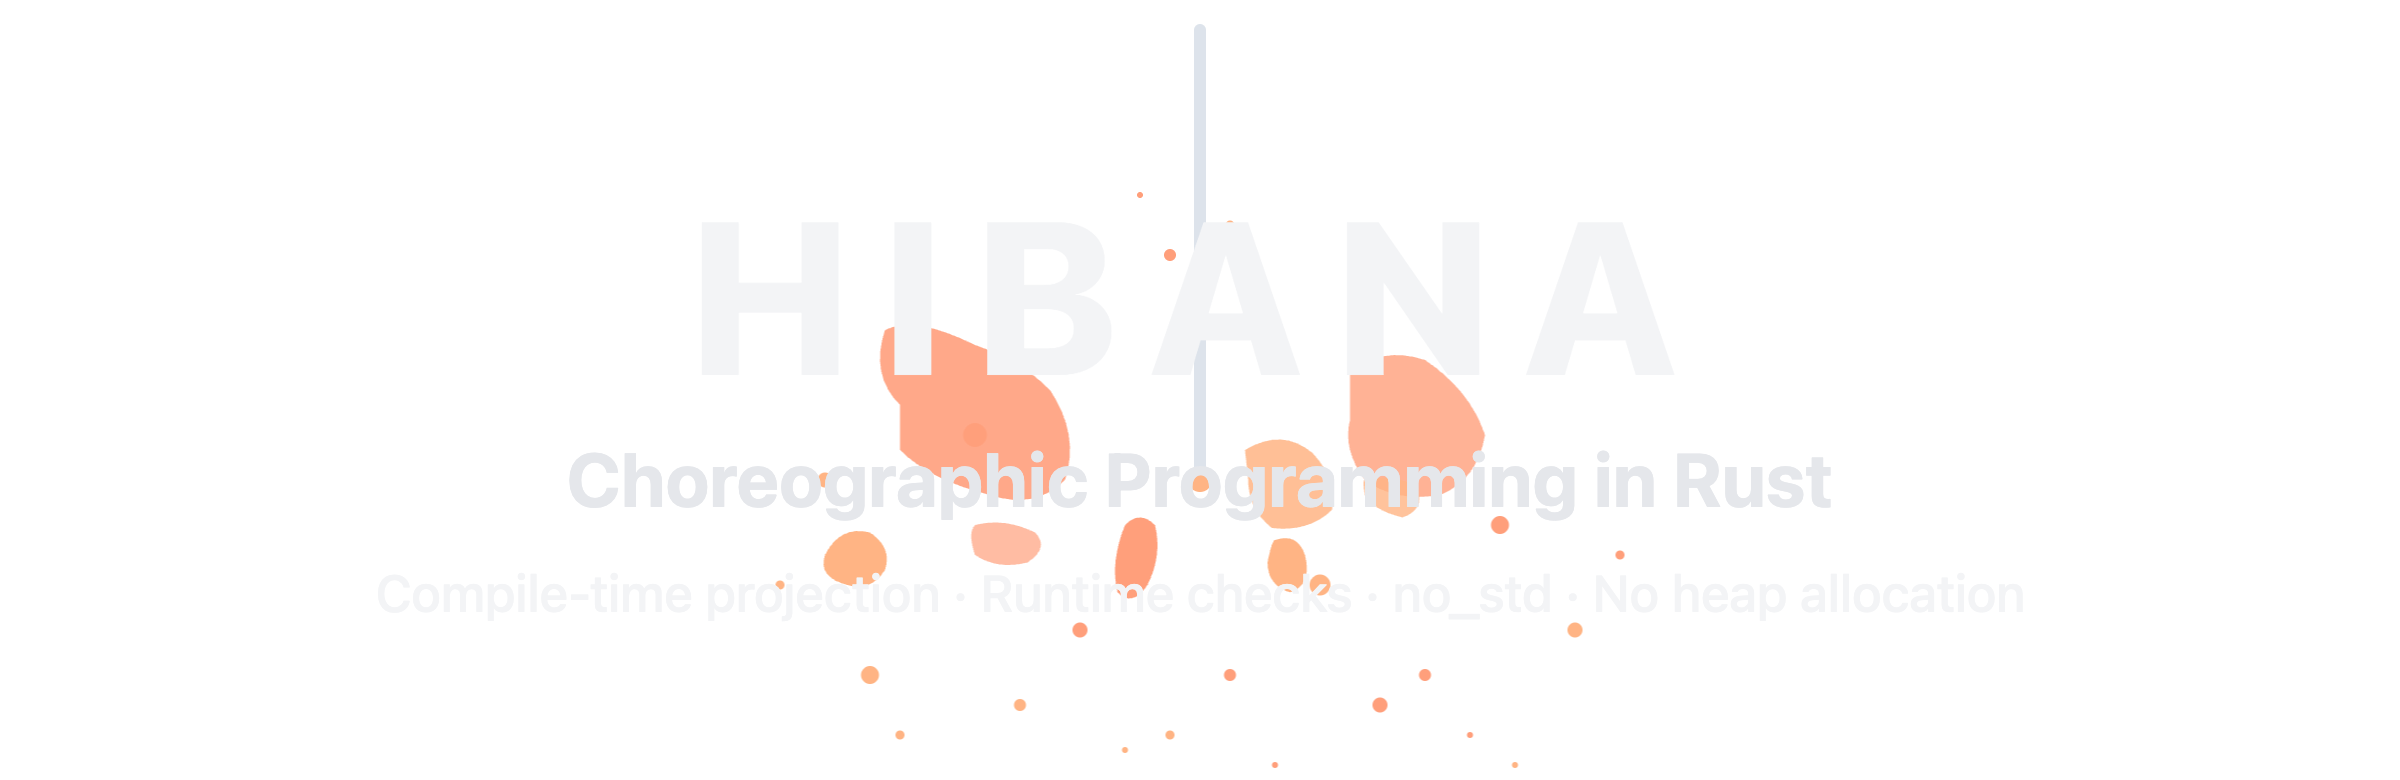
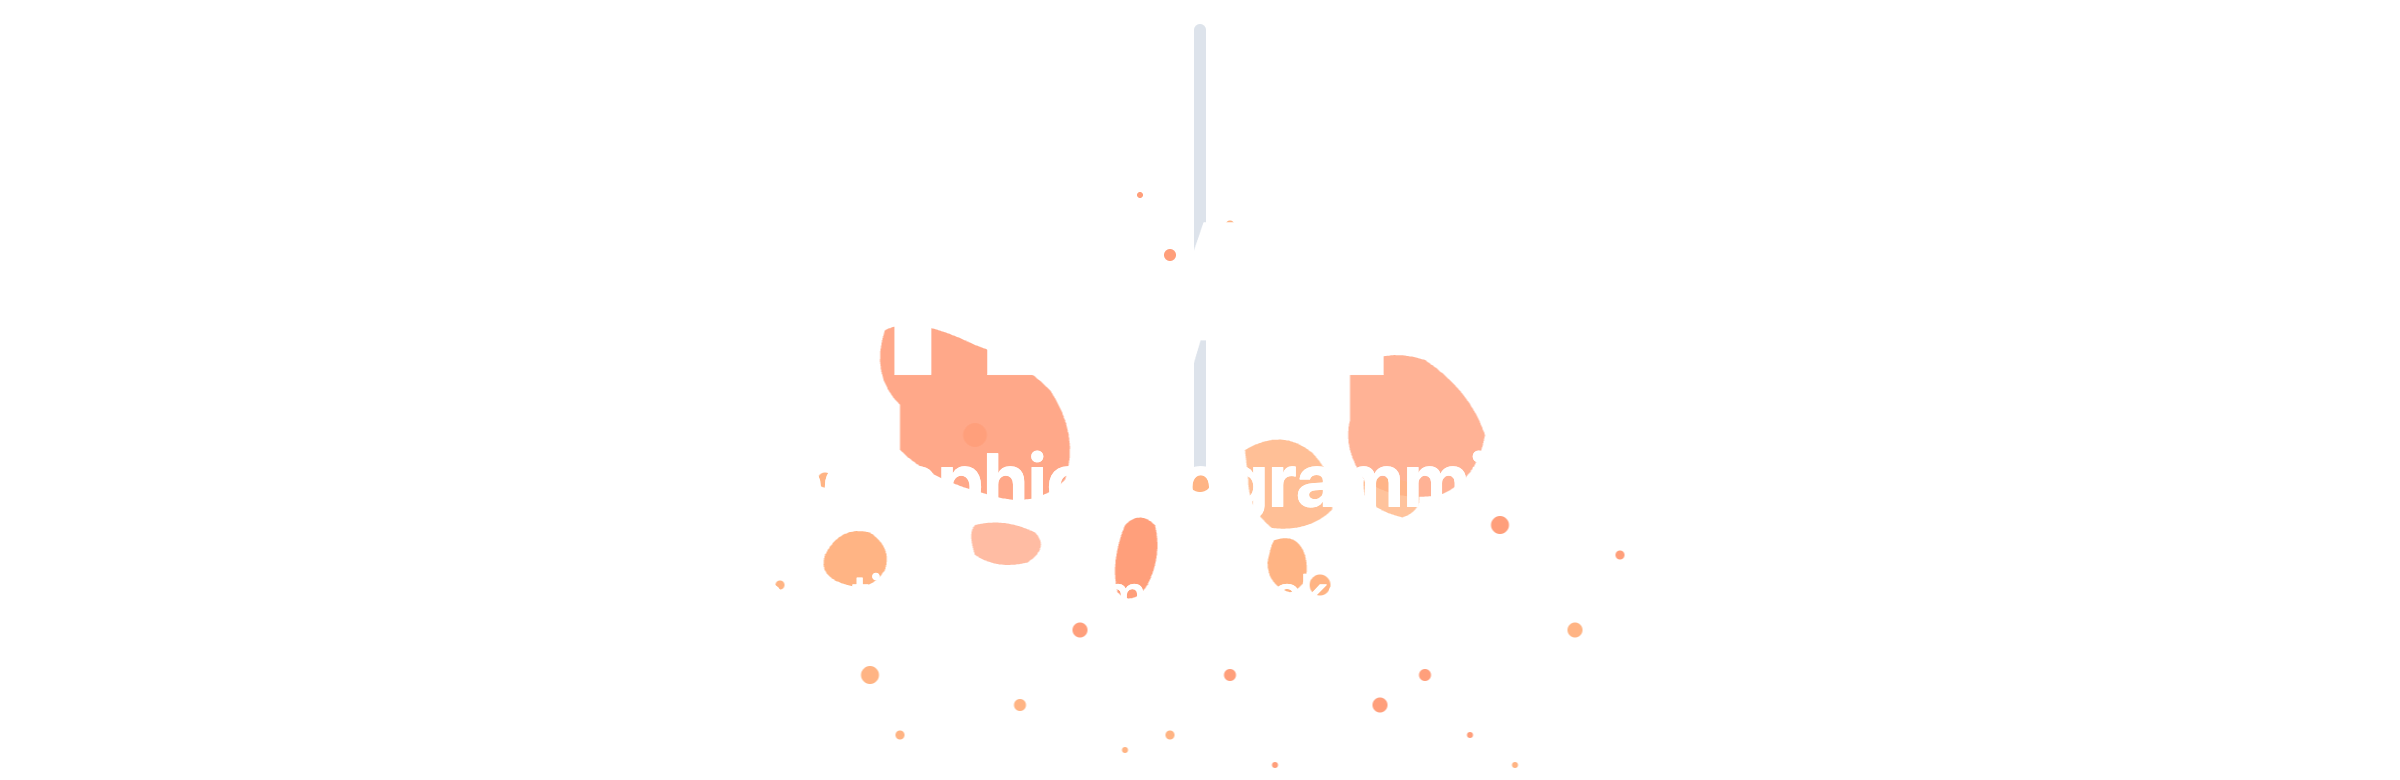
Match README headers to the GitHub theme with black and white text [skip ci]

Changed region(s): [[0.2188, 0.5846, 0.7812, 0.6769]]

diff --git a/README.ja.md b/README.ja.md
@@ -1,9 +1,10 @@
 <div align="center">
-  <picture>
-    <source media="(prefers-color-scheme: dark)" srcset="hibana-header-dark.png" />
-    <source media="(prefers-color-scheme: light)" srcset="hibana-header.png" />
-    <img src="hibana-header.png" width="600" alt="HIBANA — Choreographic Programming in Rust" />
-  </picture>
+  <a href="#gh-light-mode-only">
+    <img src="hibana-header.png#gh-light-mode-only" width="600" alt="HIBANA — Choreographic Programming in Rust" />
+  </a>
+  <a href="#gh-dark-mode-only">
+    <img src="hibana-header-dark.png#gh-dark-mode-only" width="600" alt="HIBANA — Choreographic Programming in Rust" />
+  </a>
 
   <p>
     <a href="https://github.com/hibanaworks/hibana/actions/workflows/quality-gates.yml"><img src="https://github.com/hibanaworks/hibana/actions/workflows/quality-gates.yml/badge.svg" alt="Quality gates" /></a>

diff --git a/README.md b/README.md
@@ -1,9 +1,10 @@
 <div align="center">
-  <picture>
-    <source media="(prefers-color-scheme: dark)" srcset="hibana-header-dark.png" />
-    <source media="(prefers-color-scheme: light)" srcset="hibana-header.png" />
-    <img src="hibana-header.png" width="600" alt="HIBANA — Choreographic Programming in Rust" />
-  </picture>
+  <a href="#gh-light-mode-only">
+    <img src="hibana-header.png#gh-light-mode-only" width="600" alt="HIBANA — Choreographic Programming in Rust" />
+  </a>
+  <a href="#gh-dark-mode-only">
+    <img src="hibana-header-dark.png#gh-dark-mode-only" width="600" alt="HIBANA — Choreographic Programming in Rust" />
+  </a>
 
   <p>
     <a href="https://github.com/hibanaworks/hibana/actions/workflows/quality-gates.yml"><img src="https://github.com/hibanaworks/hibana/actions/workflows/quality-gates.yml/badge.svg" alt="Quality gates" /></a>
